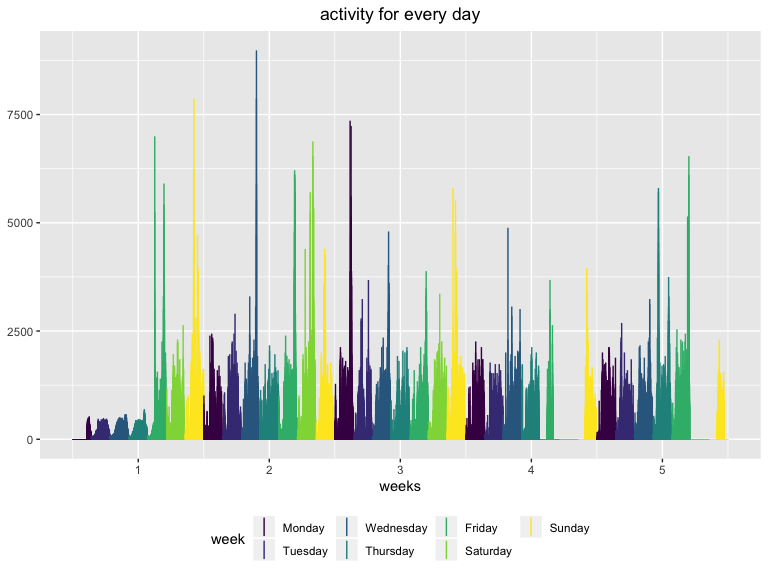
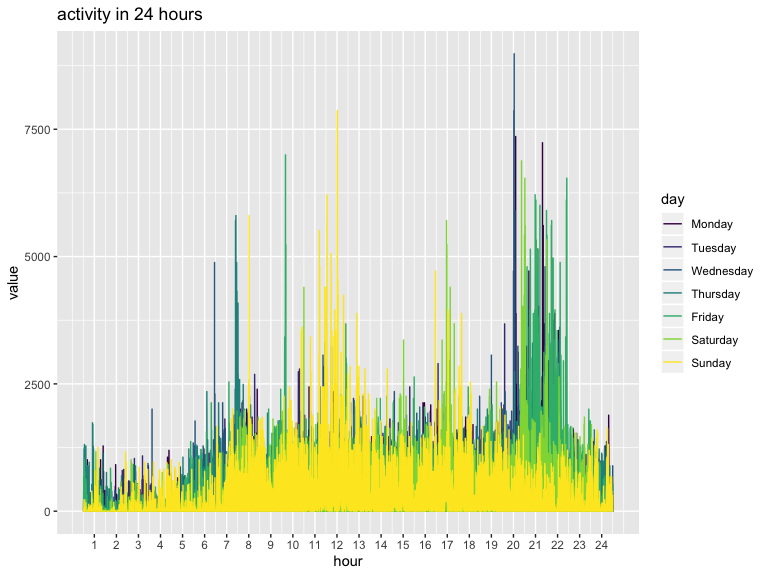
last plot seperate

diff --git a/p8105_hw3_ys3298.md b/p8105_hw3_ys3298.md
@@ -509,21 +509,17 @@ however, in week3, week4 and week5, the trends are not so
 aparent.
 
 ``` r
-ggplot(accel) + geom_linerange(aes(x=time,ymax=value,ymin=0,colour=day)) + scale_x_continuous("weeks", breaks = seq(5040, 50400 - 5040, 1440*7),labels=c(1:5)) + labs(title = "activity for every day") +   viridis::scale_color_viridis(
-    name = "week",
-    discrete = TRUE) +
-  theme(plot.title = element_text(hjust = 0.5), legend.position = "bottom")
-```
+#ggplot(accel) + geom_linerange(aes(x=time,ymax=value,ymin=0,colour=day)) + scale_x_continuous("weeks", breaks = seq(5040, 50400 - 5040, 1440*7),labels=c(1:5)) + labs(title = "activity for every day") +   viridis::scale_color_viridis(
+#    name = "week",
+#    discrete = TRUE) +
+#  theme(plot.title = element_text(hjust = 0.5), legend.position = "bottom")
 
-<img src="p8105_hw3_ys3298_files/figure-gfm/unnamed-chunk-13-1.png" width="90%" />
-
-``` r
 ggplot(accel) +
-geom_area(aes(x=activity, y=value,colour=day,fill=day)) +
+geom_line(aes(x=activity, y=value,colour=day,fill=day)) +
 scale_x_continuous("hour", breaks = seq(30, 1410, 60),labels=c(1:24)) + labs(title = "activity in 24 hours")
 ```
 
-<img src="p8105_hw3_ys3298_files/figure-gfm/unnamed-chunk-13-2.png" width="90%" />
+<img src="p8105_hw3_ys3298_files/figure-gfm/unnamed-chunk-13-1.png" width="90%" />
 
 Comment: Based on this graph, we can see the activity is relatively low
 at the beginning of a day, and increase. The most active periods are
